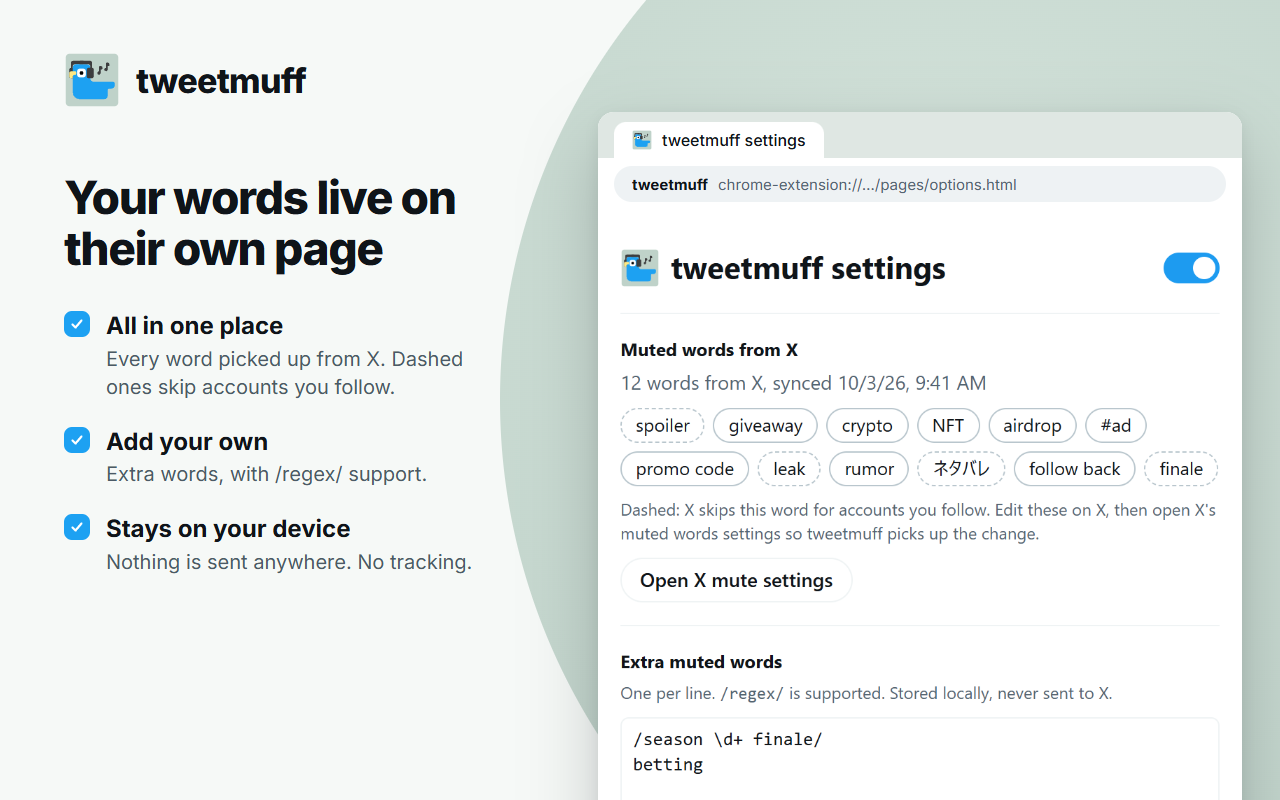
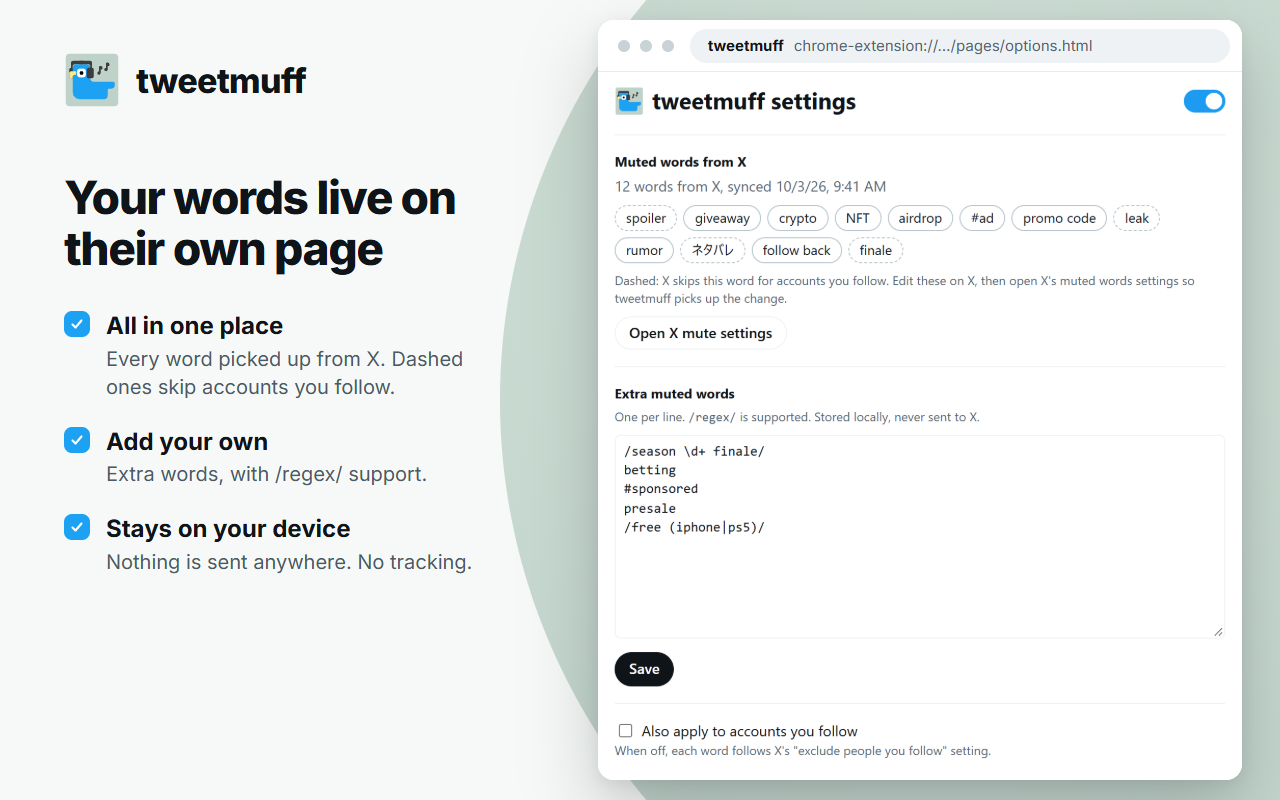
Show the whole options page in the store screenshot
The options window was cut off at the bottom. It now spans almost the
full slide height (rising into the header's empty right side), uses a
single-row toolbar like the popup slide, and scales the capture to the
window height so the page always fits. The capture trims the page's
outer top/bottom padding, and the sample state has a few more extra
words so the editor doesn't look empty.

diff --git a/store/theme.css b/store/theme.css
@@ -134,29 +134,14 @@ section::before {
 .toolbar .action img { width: 28px; height: 28px; }
 .popup { width: 480px; margin: 12px 0 0; border-radius: 14px; display: block; }
 
-/* Options slide: a browser window showing the options page */
+/* Options slide: a browser window showing the whole options page. It may rise into the header's empty right
+   side; the page image is scaled to the window height so it is never cut off. */
 .window {
-  width: 644px;
   border-radius: 16px;
   overflow: hidden;
   background: #fff;
-  align-self: flex-start;
-  margin-top: 112px;
 }
-.window .tabs { height: 46px; background: #dfe7e3; display: flex; align-items: flex-end; padding: 0 16px; }
-.window .tab {
-  display: flex;
-  align-items: center;
-  gap: 10px;
-  height: 36px;
-  padding: 0 18px;
-  border-radius: 12px 12px 0 0;
-  background: #fff;
-  font-size: 16px;
-  font-weight: 500;
-}
-.window .tab img { width: 20px; height: 20px; }
-.window .bar { padding: 8px 16px 10px; }
-.window .omnibox { height: 36px; font-size: 15px; }
+.window .toolbar { height: 52px; border-radius: 0; border-bottom: 1px solid #e6ecef; }
+.window .omnibox { height: 34px; font-size: 15px; }
 .window .omnibox b { color: var(--ink); font-weight: 600; margin-right: 10px; }
-.window .page { display: block; width: 644px; }
+.window .page { display: block; height: 708px; width: auto; }

diff --git a/store/build.js b/store/build.js
@@ -22,7 +22,10 @@ const SAMPLE_STATE = {
     ['spoiler', true], ['giveaway'], ['crypto'], ['NFT'], ['airdrop'], ['#ad'],
     ['promo code'], ['leak', true], ['rumor'], ['ネタバレ', true], ['follow back'], ['finale', true],
   ].map(([keyword, excludeFollowing = false]) => ({ keyword, excludeFollowing, validUntil: null })),
-  local: ['/season \\d+ finale/', 'betting'].map((keyword) => ({ keyword, excludeFollowing: false })),
+  local: ['/season \\d+ finale/', 'betting', '#sponsored', 'presale', '/free (iphone|ps5)/'].map((keyword) => ({
+    keyword,
+    excludeFollowing: false,
+  })),
 };
 
 function findChrome() {
@@ -99,9 +102,15 @@ try {
   });
   await capture(browser, base, {
     page: 'pages/options.html',
-    width: 460,
+    width: 620,
     file: 'options.png',
-    clip: () => ({ x: 0, y: 0, width: 460, height: document.querySelector('main').getBoundingClientRect().bottom }),
+    // The whole page, with its outer top/bottom padding trimmed so it fits the slide at a readable size.
+    clip: () => {
+      const main = document.querySelector('main');
+      const top = main.firstElementChild.getBoundingClientRect().top - 12;
+      const bottom = main.lastElementChild.getBoundingClientRect().bottom + 20;
+      return { x: 0, y: top, width: 620, height: bottom - top };
+    },
   });
 
   const page = await browser.newPage();

diff --git a/store/slides.md b/store/slides.md
@@ -40,8 +40,7 @@ size: store
 
 <div class="stage">
 <div class="window shadow">
-<div class="tabs"><span class="tab"><img src="../icons/icon.svg" alt="">tweetmuff settings</span></div>
-<div class="bar"><span class="omnibox"><b>tweetmuff</b>chrome-extension://…/pages/options.html</span></div>
+<div class="toolbar"><span class="nav"><i></i><i></i><i></i></span><span class="omnibox"><b>tweetmuff</b>chrome-extension://…/pages/options.html</span></div>
 <img class="page" src=".cache/options.png" alt="">
 </div>
 </div>
